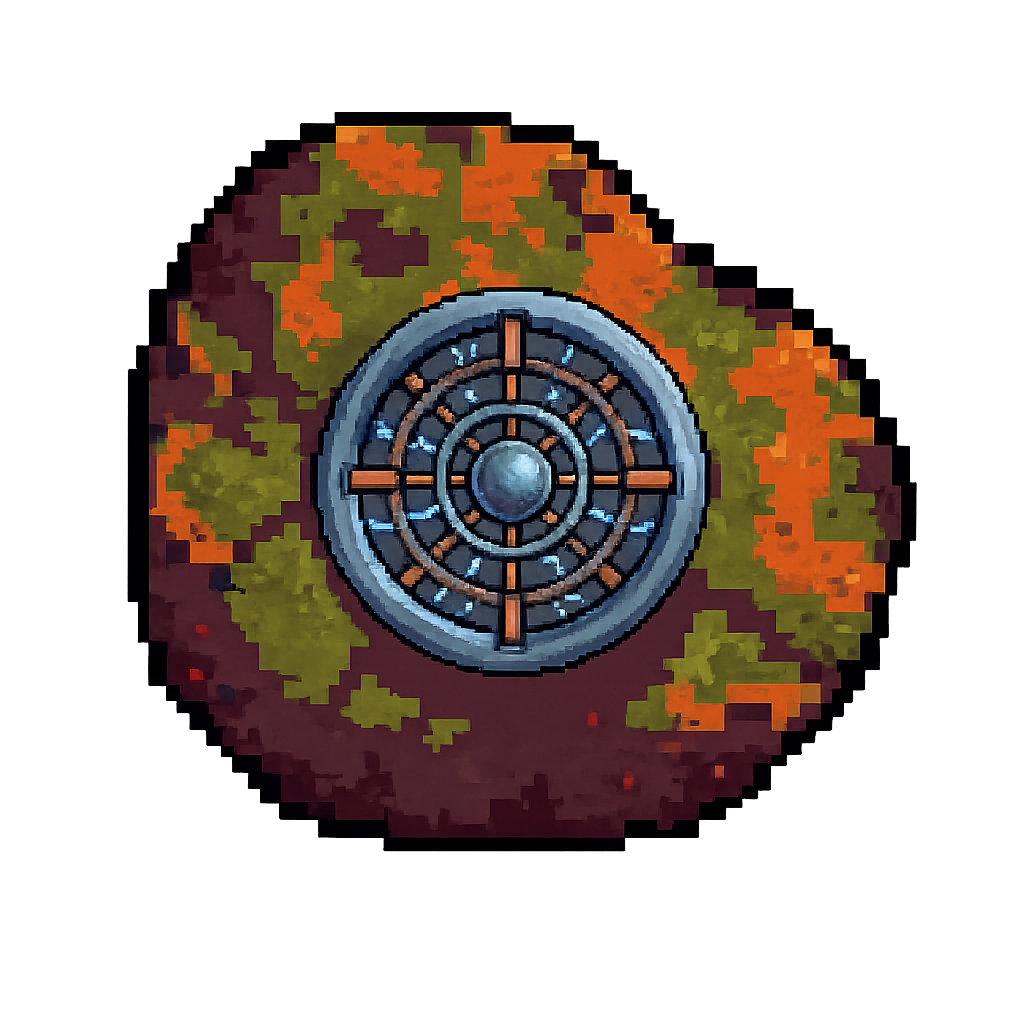
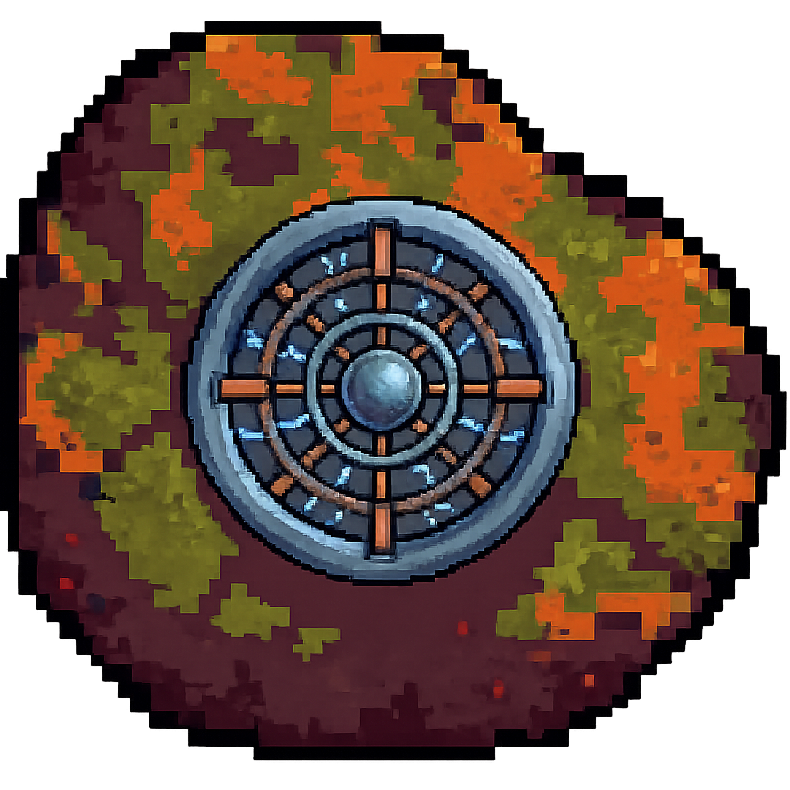
reduce hitbox of asteroide merge with main

diff --git a/eclipsoide.py b/eclipsoide.py
@@ -3,10 +3,6 @@ import pygame as pg
 # Accès à la classe Enemy
 from enemy import Enemy
 from player import Player
-from Menu import menu_pause
-
-from boss import Rectangle, Triangle
-
 
 # Définition du jeu Pong
 class Eclilpsoide:
@@ -36,11 +32,11 @@ class Eclilpsoide:
 
         # Objet sous groupe pour avoir la liste des sprites et automatiser la mise à jour par update()
         # Automatise aussi l'affichage : draw() par défaut affiche dans l'écran image à la position rect
-        self.enemies = pg.sprite.Group()
+        self.enemies_group = pg.sprite.Group()
         self.player_group = pg.sprite.Group()
-        self.projectiles = pg.sprite.Group()
+        self.projectiles_group = pg.sprite.Group()
         # Création d'une instance du joueur
-        self.player = Player(self.player_group, screen, 0.3)
+        self.player = Player(screen, 0.3, self.projectiles_group, self.player_group)
         # Création du groupe du joueur
 
         # Vrai si le jeu est fini
@@ -82,30 +78,30 @@ class Eclilpsoide:
         if (self.time + dt) % self.TIME_BETWEEN_WAVE < dt:
             nbEnemies: int = int(self.time / self.TIME_BETWEEN_WAVE)
             for i in range(0, nbEnemies):
-                Enemy(self.screen, self.enemies, self.player)
+                Enemy(self.screen, self.player, self.enemies_group)
 
         self.time += dt
 
         # Collisions entre le joueur et les ennemies
-        if pg.sprite.spritecollide(self.player, self.enemies, dokill=False):
+        if pg.sprite.spritecollide(self.player, self.enemies_group, dokill=False):
             self.player.on_hit()
 
         # Collisions entre les projectiles du joueur et les ennemies
-        pg.sprite.groupcollide(self.projectiles, self.enemies, dokilla=True, dokillb=True)
+        pg.sprite.groupcollide(self.projectiles_group, self.enemies_group, dokilla=True, dokillb=True)
 
         if self.player.is_alive == False:
             self.isEnded = True
 
         # Met à jours tous les sprites en fonction du temps qui a passé
-        self.enemies.update(dt)
+        self.enemies_group.update(dt)
         self.player_group.update(dt)
-        self.projectiles.update(dt)
+        self.projectiles_group.update(dt)
 
     def draw(self):
         """ Dessine le nouvel état du jeu """
         # Redessine le fond entier
         self.screen.blit(self.bg_image, (0, 0))
         # Dessine tous les sprites dans la surface de l'écran
-        self.enemies.draw(self.screen)
+        self.enemies_group.draw(self.screen)
         self.player_group.draw(self.screen)
-        self.projectiles.draw(self.screen)
+        self.projectiles_group.draw(self.screen)

diff --git a/enemy.py b/enemy.py
@@ -5,7 +5,6 @@ import random
 
 from player import Player
 from projectile import Projectile
-from pygame.sprite import RenderUpdates
 
 # Une balle qui rebondie sur les bords et des paddles
 class Enemy(pg.sprite.Sprite):
@@ -24,7 +23,7 @@ class Enemy(pg.sprite.Sprite):
 
     size = (ASTEROID_SIZE,ASTEROID_SIZE)
 
-    def __init__(self,screen: pg.Surface, group: RenderUpdates, player: Player, *groups):
+    def __init__(self,screen: pg.Surface, player: Player, *groups):
         # Appel du constructeur la super classe
         pg.sprite.Sprite.__init__(self, *groups)
 
@@ -51,7 +50,6 @@ class Enemy(pg.sprite.Sprite):
 
         self.player = player
         self.screen = screen
-        self.group = group
         # Recupère le rectangle de la surface du Sprite
         self.rect = self.surface.get_rect()
 
@@ -71,7 +69,6 @@ class Enemy(pg.sprite.Sprite):
             self.speedX = -self.speedX
 
         self.movement = pg.Vector2(self.speedX, self.speedY)
-        self.group.add(self)
 
     def update(self,dt):
         """ Met à jour la position de la balle  """
@@ -81,7 +78,7 @@ class Enemy(pg.sprite.Sprite):
             playerRect = self.player.rect
             direction = pg.Vector2(playerRect.center) - oldPos
             if direction.length() > 0:
-                Projectile(self.group, oldPos, 0.2, direction.normalize(), Enemy.image_shoot)
+                Projectile(oldPos, 0.2, direction.normalize(), Enemy.image_shoot, self.groups()[0])
 
         # Déplace la position de la raquette en fonction du veteur de mouvement
         # Calcule le vecteur déplacement
@@ -90,7 +87,6 @@ class Enemy(pg.sprite.Sprite):
         newPos = self.initPosition + (self.movement * self.time)
 
         if newPos.y > self.screen.get_height() + Enemy.ASTEROID_SIZE:
-            self.group.remove(self)
             self.kill()
 
         self.rect.x = int(newPos.x)

diff --git a/player.py b/player.py
@@ -1,16 +1,15 @@
 import pygame as pg
 import constantes
 from projectile import Projectile
-from pygame.sprite import RenderUpdates
 
 class Player(pg.sprite.Sprite):
     image_shoot = None
 
-    def __init__(self, group: RenderUpdates, screen: pg.Surface, speed: float, *groups):
+    def __init__(self, screen: pg.Surface, speed: float, projectilsGroup: pg.sprite.AbstractGroup, *groups):
         super().__init__(*groups)
 
-        self.group = group
         self.speed = speed
+        self.projectilsGroup = projectilsGroup
         self.screen = screen
 
         self.is_alive = True
@@ -27,7 +26,6 @@ class Player(pg.sprite.Sprite):
 
         self.rect = self.image.get_rect(midbottom=(constantes.SCREEN_SIZE[0] // 2, constantes.SCREEN_SIZE[1] - 50))
         self.position = pg.Vector2(self.rect.midbottom)
-        group.add(self)
 
     def update(self, dt):
         keystate = pg.key.get_pressed()
@@ -53,10 +51,9 @@ class Player(pg.sprite.Sprite):
         self.fire_timer -= dt
 
         if self.fire_timer <= 0 and keystate[pg.K_SPACE]:
-            Projectile(self.group, pg.Vector2(self.rect.center), 0.4, pg.Vector2(0, -1), [Player.image_shoot])
+            Projectile(pg.Vector2(self.rect.center), 0.4, pg.Vector2(0, -1), [Player.image_shoot], self.projectilsGroup)
             self.fire_timer = self.fire_delay
 
     def on_hit(self):
         self.is_alive = False
-        self.group.remove(self)
         self.kill()

diff --git a/projectile.py b/projectile.py
@@ -1,12 +1,11 @@
 import pygame as pg
 from pygame.math import Vector2
-from pygame.sprite import RenderUpdates
 
 class Projectile(pg.sprite.Sprite):
     FRAME_SPEED: float = 0.01
     time = 0
 
-    def __init__(self, all: RenderUpdates, origin: Vector2, speed: float, direction: pg.Vector2, textures: list[pg.Surface], *groups):
+    def __init__(self, origin: Vector2, speed: float, direction: pg.Vector2, textures: list[pg.Surface], *groups):
         super().__init__(*groups)
         self.all = all
         self.speed = speed
@@ -24,7 +23,6 @@ class Projectile(pg.sprite.Sprite):
 
         self.rect = self.surface.get_rect()
         self.rect.move_ip(origin)
-        self.all.add(self)
 
     def update(self, dt):
         self.time += dt
@@ -37,6 +35,5 @@ class Projectile(pg.sprite.Sprite):
         self.rect.y = int(newPos.y)
 
         if self.rect.bottom <= 0:
-            self.all.remove(self)
             self.kill()
 
